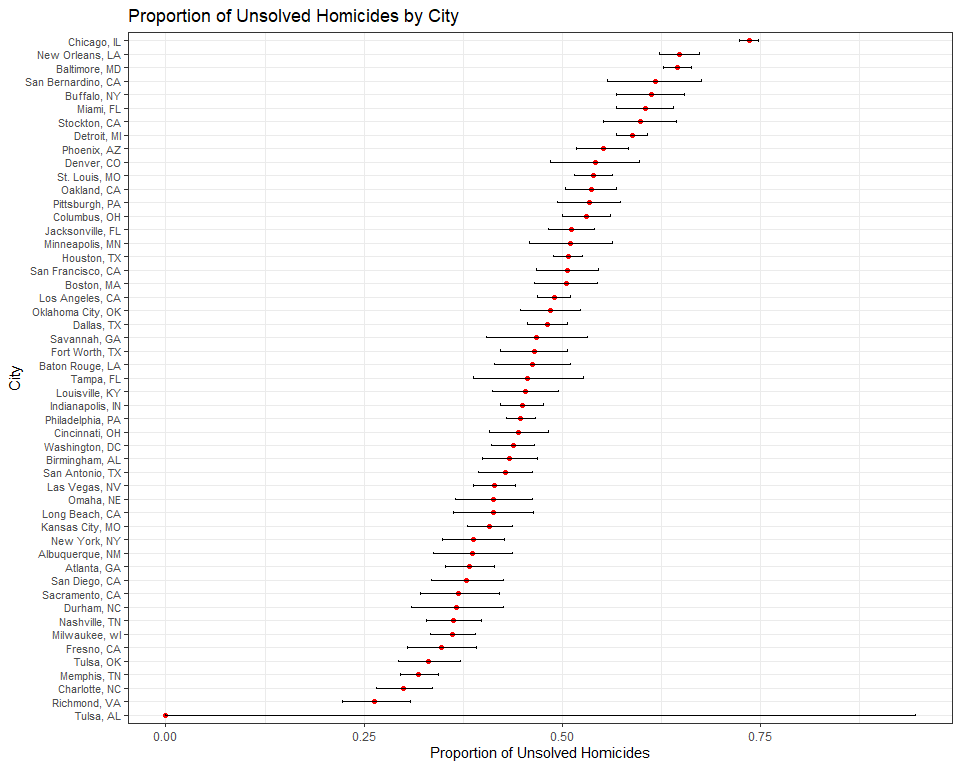
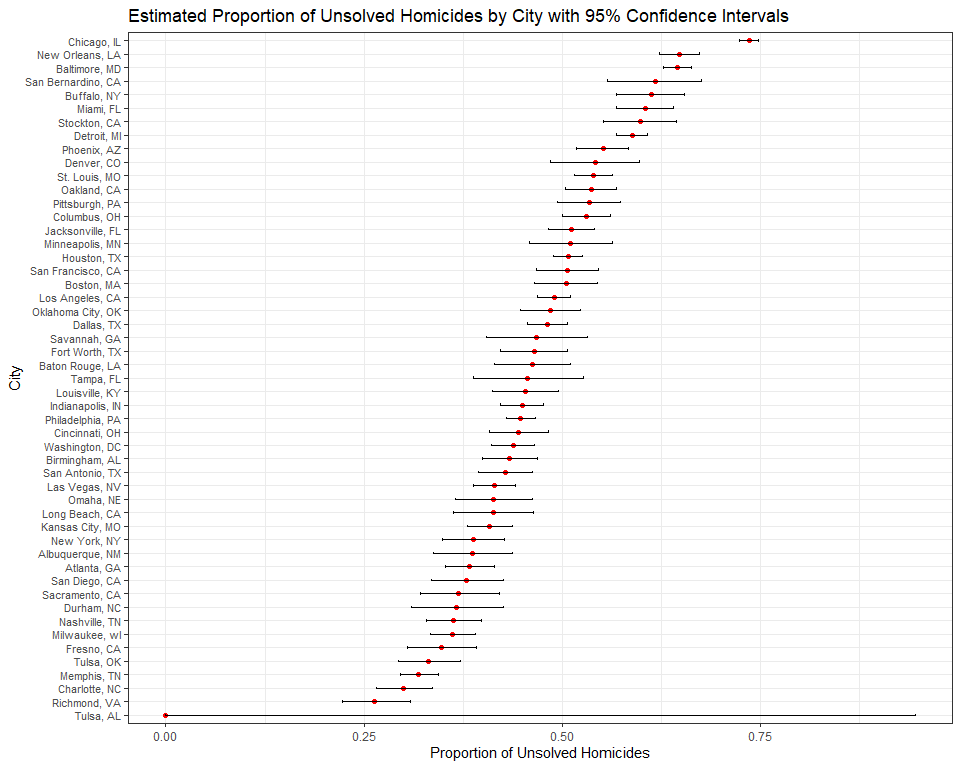
Changed plot title in problem 3

Changed region(s): [[0.125, 0.0, 0.8125, 0.0312]]

diff --git a/p8105_hw5_mb5357.md b/p8105_hw5_mb5357.md
@@ -229,7 +229,7 @@ city_test |>
                     ymax = conf.high), 
                 width = 0.2) +
   labs(
-    title = "Proportion of Unsolved Homicides by City",
+    title = "Estimated Proportion of Unsolved Homicides by City with 95% Confidence Intervals",
     x = "City",
     y = "Proportion of Unsolved Homicides"
   )  +
